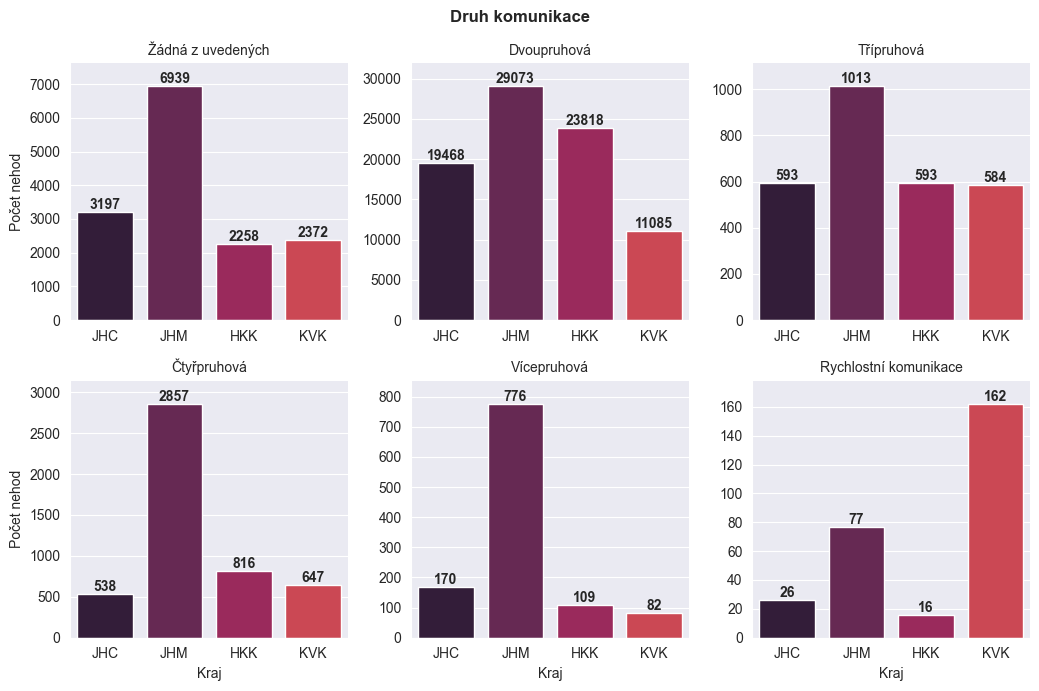
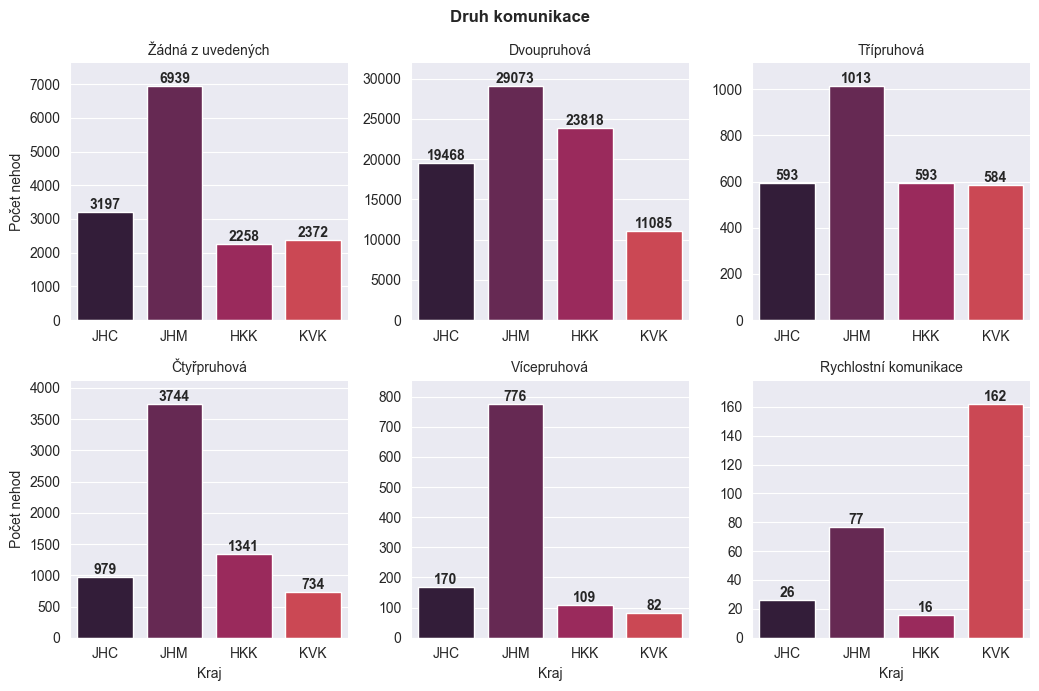
done

diff --git a/analysis.py b/analysis.py
@@ -100,7 +100,7 @@ def plot_roadtype(df: pd.DataFrame, fig_location: str = None,
     df_type = df[df['region'].isin(
                 ['JHC', 'JHM', 'HKK', 'KVK'])][['region', 'p21']]
     df_type['tmp'] = 1
-    df_type.loc[df_type['p21'] == 4] = 3
+    df_type.loc[df_type['p21'] == 4, 'p21'] = 3
     df_type = df_type.groupby(['region', 'p21']).agg('sum').reset_index()
     df_type = df_type.sort_values(by=['p21'])
     df_type['p21'] = df_type['p21'].map(road_types)
